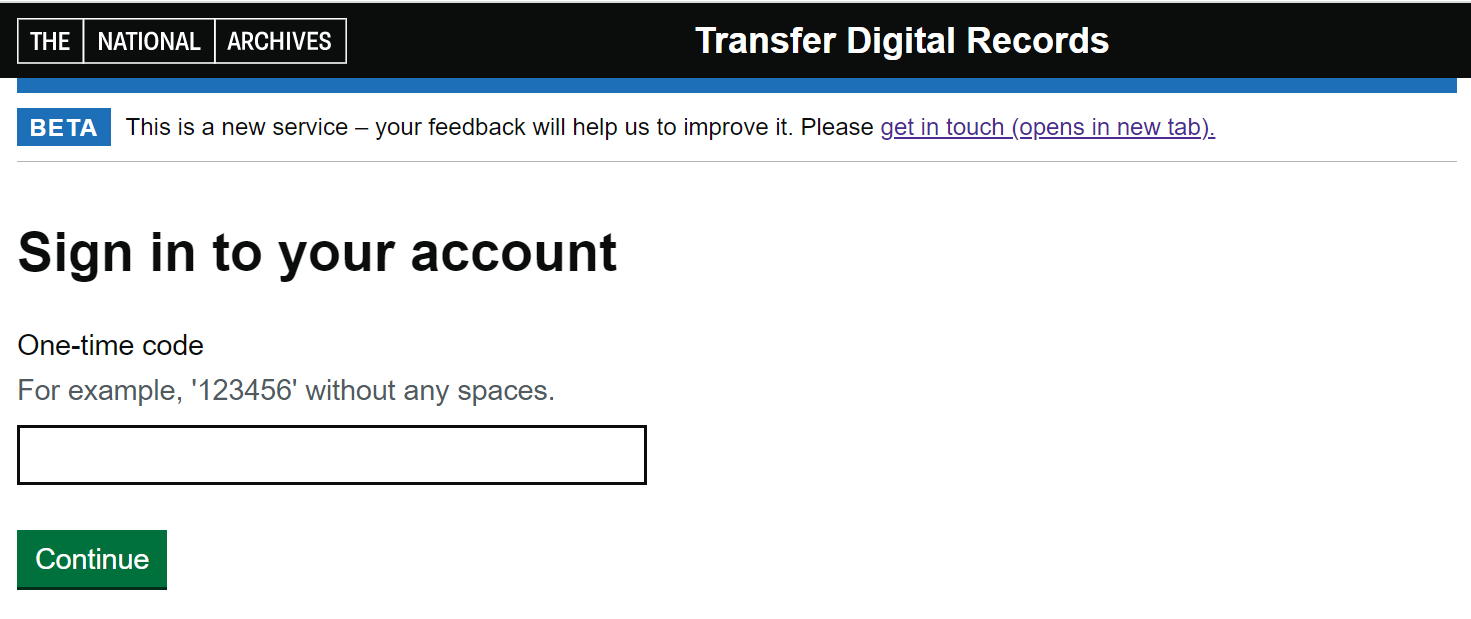
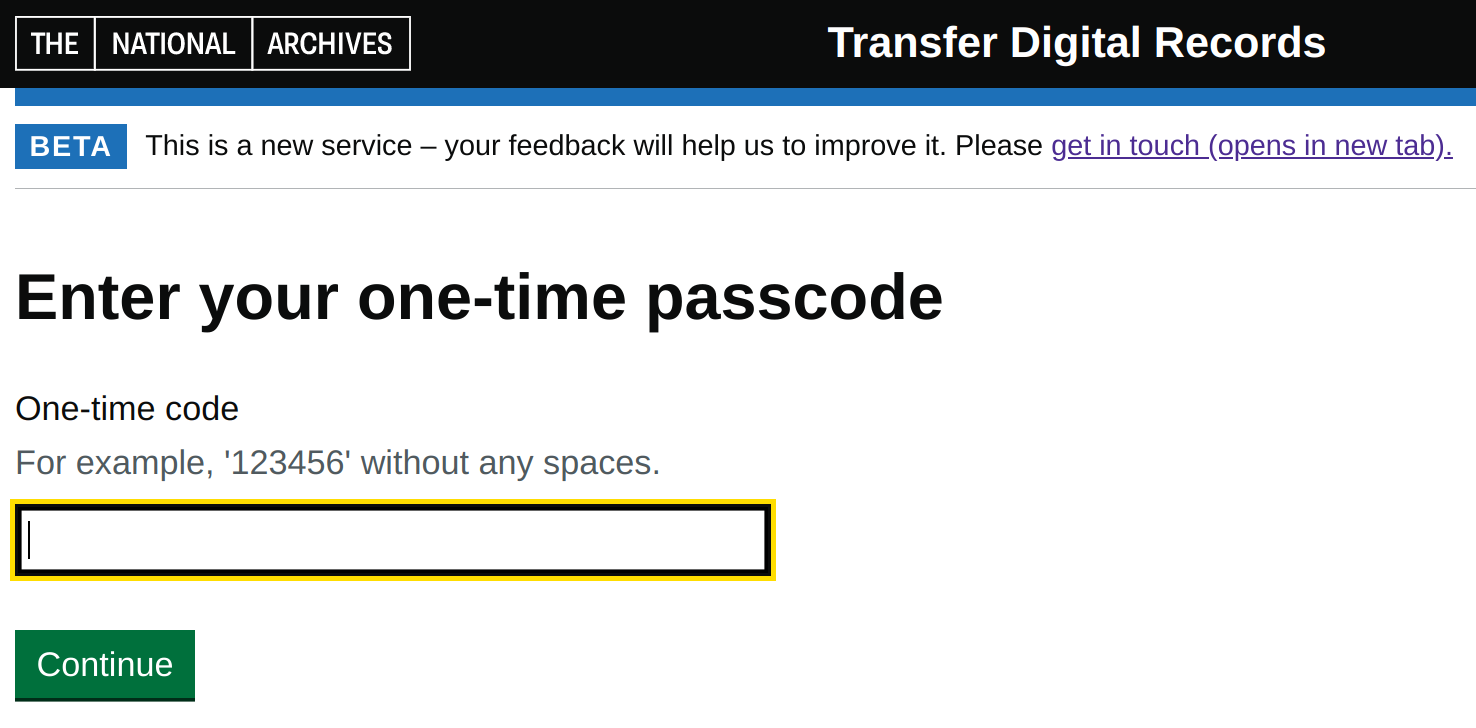
Judgment guide updates.
I've tried to stick as closely to the Google doc as I can in HTML.
The only bit I've changed that I'm not sure of is in the
"Step 2: Upload the judgment" section, there doesn't seem to be any
place for the first file upload image. The new text seems to suggest
that the error image is the next one so I've removed the first image.

I've also update the two MFA images to show the new page headings on the
MFA pages. These images are shared with the standard guide so they
should be updated there as well.

diff --git a/app/views/judgment/judgmentHelp.scala.html b/app/views/judgment/judgmentHelp.scala.html
@@ -42,10 +42,10 @@
           For anyone involved in recording judgments, this service is used to send the final approved judgment to TNA for preservation and publication on the 'Find Case Law' website <a href="https://caselaw.nationalarchives.gov.uk">https://caselaw.nationalarchives.gov.uk</a>.
         </p>
         <p class="govuk-body">
-          Sending via TDR is a two stage process:
+          Sending judgments via TDR is in two stages:
         </p>
         <ul class="govuk-list govuk-list--bullet">
-          <li>First you will upload your judgment into TDR </li>
+          <li>First you will upload your judgment onto TDR </li>
           <li>Then you will be prompted to export your judgment for transfer to TNA</li>
         </ul>
 
@@ -53,12 +53,12 @@
 
         <h3 class="govuk-heading-s" id="web-browsers">Web browsers</h3>
         <p class="govuk-body">
-          We do not support Internet Explorer (IE11). We advise you to use a different browser such as Edge, Chrome, Safari or Firefox to ensure you can use this service and all of its features.
+          We do not support Internet Explorer. We advise you to use a different browser such as Edge, Chrome or Firefox to ensure you can use this service and all of its features.
         </p>
 
         <h3 class="govuk-heading-s" id="secured-access">Secured access</h3>
         <p class="govuk-body">
-          In order to keep the service and your account secure from attack, TDR uses Multi-factor Authentication (MFA), which needs two separate pieces of information in order to authenticate and access the service. This means you will be required to sign in each time using a unique generated 'one-time password' (OTP) code that confirms who you are. This can be set up with a free-to-download authenticator app on your smartphone, such as Google Authenticator, Microsoft Authenticator, or FreeOTP. Other authenticators are available.
+          In order to keep the service and your account secure, TDR uses Multi-Factor Authentication (MFA), which needs two separate pieces of information in order to authenticate and grant access to the service. This means you are required to sign in each time using a unique generated 'one-time password' (OTP) code that confirms who you are. This can be set up with a free-to-download authenticator app on your smartphone, such as Google Authenticator, Microsoft Authenticator, or FreeOTP. Other authenticators are also available.
         </p>
         <p class="govuk-body">
           Free-to-download apps are available from the App Store for iPhone, or 'Google Play' and 'Play Store' for Android.
@@ -66,18 +66,11 @@
 
         <h3 class="govuk-heading-s" id="file-format">File format</h3>
         <p class="govuk-body">
-          Double-check your judgment prior to upload to ensure you are sending us the correct file.
+          You must only upload a single Microsoft Word (.docx) document per transfer, using the template supplied by the Judiciary Office Judgments Helpdesk. During upload and checking, if we detect a file we cannot accept, you will be notified on screen. For more information about the types of files we accept, contact <a href="mailto:@Messages("judiciary.email")">@Messages("judiciary.email")</a>
         </p>
-        <p class="govuk-body">
-          Only upload a single Microsoft Word (.docx) document per transfer, using the template supplied by the Judiciary Office Judgments Helpdesk, contactable at <a href="mailto:@Messages("judiciary.email")">@Messages("judiciary.email")</a>
-        </p>
-        <p class="govuk-body">
-          During upload and checking, if we detect a file we cannot accept, you will be notified on screen.
-        </p>
-
         <h3 class="govuk-heading-s" id="supplementary-material">Supplementary material</h3>
         <p class="govuk-body">
-          Occasionally other supporting documents, such as photos, need preserving with the judgment. When this happens, they will need to be emailed to TNA Case Law editorial team with the transfer reference of the judgment they relate to. Full details on how to do this can be found <a href="#supp-material">
+          If supporting documents, such as photos, need to be preserved with a judgment, they must be emailed to the TNA Find Case Law editorial team with the transfer reference of the judgment they relate to. Full details on how to do this can be found <a href="#supp-material">
           here</a>.
         </p>
 
@@ -91,54 +84,44 @@
         <h3 class="govuk-heading-s" id="new-user-email">Part 1: New user email</h3>
         <ol class="govuk-body">
           <li>
-            If you want to register for a new TDR account, email the <span class="govuk-!-font-weight-bold">Judiciary   Office   Judgments   Helpdesk</span> <a href="mailto:@Messages("nationalArchives.email")">
+            If your department has not requested a new account registration for you, you can register for a new TDR account by emailing <a href="mailto:@Messages("nationalArchives.email")">
             @Messages("nationalArchives.email")</a>
-            from your work email account and ask to register as a new user, stating clearly your first name and surname. Allow up to 2 working days for your request to be processed. </li>
+            from your work email account. in the email you should ask to register as a new user, stating clearly your first name and surname. Allow up to two working days for your request to be processed. </li>
           <li>
-            Once you have been validated for an account, you will be sent an email with the subject <span class="govuk-!-font-weight-bold">"Register for your Transfer Digital Records (TDR) account - ACTION REQUIRED"</span> which contains important registration instructions.</li>
+            Once your account is validated, you will be sent an email with the subject <span class="govuk-!-font-weight-bold">"Register for your Transfer Digital Records (TDR) account - ACTION REQUIRED"</span> which contains important registration instructions.</li>
           <li>
-            You will receive an email shortly after with the subject <span class="govuk-!-font-weight-bold">"Update Your Account"</span>, containing <span class="govuk-!-font-weight-bold">a link that expires after 12 hours.</span> Please click the link before it expires to begin your registration. <em>If your link has expired before you could use it, email <a href="mailto:@Messages("nationalArchives.email")">@Messages("nationalArchives.email")</a> and request a new registration link.</em></li>
-          <li>The link will take you to this page:</li>
+            You will receive an email shortly after with the subject <span class="govuk-!-font-weight-bold">"Update Your Account"</span>, containing <span class="govuk-!-font-weight-bold">a link that expires after 12 hours.</span> Click the link before it expires to begin your registration. <em>If your link expires before you can use it, email <a href="mailto:@Messages("nationalArchives.email")">@Messages("nationalArchives.email")</a> and request a new registration link.</em></li>
+          <li>The registration link will take you to this page:</li>
           <img src="@routes.Assets.versioned("images/configure-otp-password-page.png")" class="screenshots" alt="Sign in page with a link to setup MFA and password" />
           <li>
-            Click on the <span class="govuk-!-font-weight-bold">"Configure OTP, Update Password"</span> link to set up your 'One-time password' (OTP), sometimes referred to as 'One-time PIN', for secure sign in using two-step authentication.</li>
+            Click on the <span class="govuk-!-font-weight-bold">"Configure OTP, Update Password"</span> link to set up your 'one-time password' (OTP) code, sometimes referred to as 'one-time PIN', to securely sign in using two-step authentication.</li>
         </ol>
 
         <h3 class="govuk-heading-s" id="why-otp">What is OTP and why do I need to use it?</h3>
         <p class="govuk-body">
-          In order to keep the service and your account secure from attack, TDR requires Multi-factor Authentication (MFA), which uses two separate pieces of information in order to authenticate access to the service. This means that, in addition to your personal password, you will be required to sign in each time using a <span class="govuk-!-font-weight-bold">'One-time password' (OTP) code</span> from an authenticator app, which you set up to generate a unique single use code that confirms who you are. Free authenticator apps can be downloaded onto your smartphone, such as Google Authenticator, Microsoft Authenticator, or FreeOTP. Other authenticators are available.
+          A ‘one-time password’ (OTP) code is a unique generated code that confirms who you are. An OTP code is generated in an authenticator app. Free authenticator apps can be downloaded onto your smartphone, such as Google Authenticator, Microsoft Authenticator, or FreeOTP. Other authenticators are available. Free-to-download apps are available from the App Store for iPhone, or 'Google Play' and 'Play Store' for Android.
         </p>
         <p class="govuk-body">
-          Free-to-download apps are available from the App Store for iPhone, or 'Google Play' and 'Play Store'.
+          To keep the service and your account secure, you must sign in to your account using an OTP in addition to your personal password.
         </p>
 
         <h3 class="govuk-heading-s" id="two-step-auth">Part 2: Two-step authentication</h3>
         <p class="govuk-body">
-          Clicking the "Configure OTP, Update Password" link will take you to the <span class="govuk-!-font-weight-bold">"Sign in to your account"</span> page:
+          Clicking the "Configure OTP, Update Password" link will take you to the <span class="govuk-!-font-weight-bold">"Configure multi-factor authentication"</span> page:
         </p>
         <img src="@routes.Assets.versioned("images/set-up-mfa-page.png")" class="screenshots" alt="Form to setup multi factor authentication" />
-        <ol class="govuk-body">
-          <li>Ensure you have installed an authenticator app onto your smartphone before proceeding.</li>
-          <li>To set up your app for use with TDR:
-            <ol class="govuk-body">
-              <li>Open your downloaded authenticator app on your mobile.</li>
-              <li>Create a new TDR-related account on the app using the QR code displayed on your screen:
-                <ul class="govuk-body">
-                  <li>For Google Authenticator, click on the first option 'Scan a QR code'.</li>
-                  <li>
-                    For Microsoft Authenticator, first click on the <span class="govuk-!-font-weight-bold">'+'</span> icon to add an account. Note that you might need to click on the three little dots in the top right corner to have this option displayed. Then select <span class="govuk-!-font-weight-bold">"Other (Google, Facebook, etc.)"</span> to access the QR scanner.</li>
-                  <li>For Free OTP, click on the QR code icon located in the top banner of your smartphone screen.</li>
-                </ul>
-              </li>
-              <li>Scan the QR code displayed on your computer screen</li>
-              <li>Your smartphone app will automatically create a unique OTP account to use with TDR sign in.</li>
-              <li>You should now be able to see a 6-digit code that will refresh at regular intervals.</li>
-            </ol>
-          </li>
+        <p class="govuk-body">First you must ensure you have installed an authenticator app onto your smartphone before proceeding.</p>
+        <p class="govuk-body">To set up your app for use with TDR, open your authenticator app on your mobile and create a new TDR account using the QR displayed on your screen</p>
+        <ul class="govuk-body">
+          <li>For Google Authenticator, click on the first option 'Scan a QR code'.</li>
           <li>
-            In the <span class="govuk-!-font-weight-bold">"One-time code"</span> box, type in the 6 digits <u>without a space</u>, ensuring that you have enough time to complete this page before the code refreshes (usually every 30 to 60 seconds).</li>
-          <li>Click <span class="govuk-!-font-weight-bold">"Submit"</span> <u>before</u> the code used expires in the app.</li>
-        </ol>
+            For Microsoft Authenticator, first click on the '+' icon to add an account. You might need to click on the three little dots in the top right corner to have this option displayed. Then select "Other (Google, Facebook, etc.)" to access the QR scanner.
+          </li>
+          <li>For Free OTP, click on the QR code icon located in the top banner of your smartphone screen.</li>
+        </ul>
+        <p class="govuk-body">Scan the QR code displayed on your computer screen and your app will automatically create a unique OTP account to use with TDR. You should now see a 6-digit code that will refresh at regular intervals.</p>
+        <p class="govuk-body">In the "One-time code" box, type in the six digits <u>without a space</u>, ensuring that you have enough time to complete this page before the code refreshes (usually every 30 to 60 seconds).</p>
+        <p class="govuk-body">Click "Submit" <u>before</u> the code expires in the app.</p>
 
         <h3 class="govuk-heading-s" id="set-pass">Part 3: Set your password</h3>
         <p class="govuk-body">
@@ -150,14 +133,15 @@
           <li>Click <span class="govuk-!-font-weight-bold">"Submit"</span> to be taken to the "Sign in to your account" page:</li>
           <img src="@routes.Assets.versioned("images/sign-in-link-page.png")" class="screenshots" alt="Page with a link to sign in to your account" />
           <li>
-            Click the <span class="govuk-!-font-weight-bold">"sign in to your account"</span> link to be taken to the standard "Sign in to your account" page in <a href="#step-0">Step 0</a> that you will start with every time you sign in to use the service as an existing account holder.</li>
-            <li><span class="govuk-!-font-weight-bold">You must complete your registration following the sign in procedure in <a href="#step-0">Step 0</a>.</span></li>
+            Click the <span class="govuk-!-font-weight-bold">"sign in to your account"</span> link to be taken to the standard "Sign in to your account" page that you will see each time you sign in to use the service as an existing account holder.
+          </li>
+            <li>You must complete your registration following the sign in procedure.</li>
         </ol>
 
         <h2 class="govuk-heading-m" id="existing-account-holder">Using the service as an existing account holder</h2>
         <h3 class="govuk-heading-s" id="web-browsers-access">Web browsers</h3>
         <p class="govuk-body">
-          We do not support Internet Explorer (IE11). We advise you to use a different browser such as Edge, Chrome, Safari or Firefox to ensure you can use this service and all of its features.
+          We do not support Internet Explorer. We advise you to use a different browser such as Edge, Chrome or Firefox to ensure you can use this service and all of its features.
         </p>
 
         <h3 class="govuk-heading-s" id="accessing-tdr">Accessing TDR</h3>
@@ -171,32 +155,29 @@
           Click <span class="govuk-!-font-weight-bold">"Start now"</span> to sign in and begin the transfer process.
         </p>
 
-        <h3 class="govuk-heading-s" id="top-tip-bookmark">Top tip</h3>
+        <h3 class="govuk-heading-s" id="step-0">To begin: Sign in to your account using Multi-Factor Authentication</h3>
         <p class="govuk-body">
-          Add TDR to your browser's Favourites or Bookmarks for quick access next time you use the service.
-        </p>
-
-        <h3 class="govuk-heading-s" id="step-0">Step 0: Sign in to your account using multi-factor authentication</h3>
-        <p class="govuk-body">
-          Before you can use the service, you must sign in using multi-factor authentication (MFA) with the authenticator app that you set up on your smartphone, which generates your unique 'one-time password' (OTP) code.
+          Before you can use the service, you must sign in using Multi-Factor Authentication (MFA) with the authenticator app that you set up on your smartphone, which generates your unique 'one-time password' (OTP) code.
         </p>
         <ol class="govuk-body">
           <img src="@routes.Assets.versioned("images/judgment-sign-in-email-password.png")" class="screenshots" alt="Form to enter an email and password" />
           <li>
-            Sign in by entering your <span class="govuk-!-font-weight-bold">"Email address"</span> and <span class="govuk-!-font-weight-bold">"Password"</span>, then click <span class="govuk-!-font-weight-bold">"Sign in"</span> to be taken to the <span class="govuk-!-font-weight-bold">"One-time code"</span> section on this page:
+            Sign in by entering your email address and password, then click "Sign in" to be taken to the "One-time code" section on this page:
           </li>
           <img src="@routes.Assets.versioned("images/enter-mfa-code-page.png")" class="screenshots" alt="Form to enter the code from the MFA app" />
           <li>
-            Enter a new 6-digit one-time code from the authenticator app that you set up when you registered. Enter the code without any spaces and click <span class="govuk-!-font-weight-bold">"Continue"</span> before it refreshes.</li>
-          You will then be taken to the TDR Homepage
-          <img src="@routes.Assets.versioned("images/judgment-tdr-start-page.png")" class="screenshots" alt="The TDR Homepage" />
-          <li>Click <span class="govuk-!-font-weight-bold">"Start transfer"</span> to begin</li>
+            Enter a new 6-digit one-time code from the authenticator app that you set up when you registered. Enter the code without any spaces and click <span class="govuk-!-font-weight-bold">"Continue"</span> before it refreshes.
+          </li>
+          <li>You will then be taken to the TDR Homepage
+            <img src="@routes.Assets.versioned("images/judgment-tdr-start-page.png")" class="screenshots" alt="The TDR Homepage" />
+            Click <span class="govuk-!-font-weight-bold">"Start transfer"</span> to begin
+          </li>
 
         </ol>
 
         <h3 class="govuk-heading-s" id="step-1">Step 1: Check your file before uploading</h3>
         <p class="govuk-body">
-          You will be prompted to check that your document contains the following information:
+          You will be prompted to check that your file contains the following information:
         </p>
         <ul class="govuk-body">
           <li>Neutral citation</li>
@@ -206,32 +187,28 @@
           <li>Judgment date</li>
         </ul>
         <p class="govuk-body">
-          You must ensure your judgment includes all important information above <u>before</u> you start your upload.
+            You must ensure your judgment includes all important information above <span class="govuk-!-font-weight-bold">before</span> you start your upload. Press "Continue" when you are ready to move on.
         </p>
         <img src="@routes.Assets.versioned("images/judgment-check-your-file.png")" class="screenshots" alt="Check your file before uploading page" />
 
         <h3 class="govuk-heading-s" id="supp-material">Supplementary material</h3>
         <p class="govuk-body">
-          If you need to include additional documents with your judgment, you currently <u>cannot</u> upload them with your judgment as part of the transfer. Instead, click on the <a href="mailto:@Messages("nationalArchives.judgmentsEmail")">
+          Currently, you cannot upload additional documents with your judgment, as part of the transfer. Instead, click on the <a href="mailto:@Messages("nationalArchives.judgmentsEmail")">
           @Messages("nationalArchives.judgmentsEmail")</a>
           link located in the middle of the screen to generate an automatic email with the transfer reference as the subject. Attach your supplementary documents and add any other relevant information before sending.
         </p>
         <p class="govuk-body">
-          If your email application, for example Outlook, is not set up to automatically create the email for you, create your own email to send to the same address, manually adding the transfer reference as the subject.
+          You can also create the email yourself, manually adding the transfer reference as the subject and sending it to the correct email address.
         </p>
 
         <h3 class="govuk-heading-s" id="replacement-versions">Replacement versions</h3>
         <p class="govuk-body">
-          If your judgment is an amended replacement version for an existing judgment, use the same email method to notify the TNA Case Law editorial team. Include the neutral citation reference of the original judgment that it is replacing.
+          If your judgment is an amended replacement version for an existing judgment, email <a href="mailto:@Messages("nationalArchives.judgmentsEmail")">@Messages("nationalArchives.judgmentsEmail")</a> to notify the TNA Find Case Law editorial team. Include the neutral citation reference of the original judgment that it is replacing.
         </p>
 
         <h3 class="govuk-heading-s" id="anonymisation-orders">Anonymisation Orders</h3>
         <p class="govuk-body">
-          If your judgment has an anonymisation order, use the same email method to notify the TNA Case Law editorial team, include the neutral citation reference and any important information so that the editorial team can give your record the attention it needs. This procedure will become automated in time.
-        </p>
-
-        <p class="govuk-body">
-          Press <span class="govuk-!-font-weight-bold">"Continue"</span> when you are ready to move on.
+          If your judgment has an anonymisation order, email <a href="mailto:@Messages("nationalArchives.judgmentsEmail")">@Messages("nationalArchives.judgmentsEmail")</a> to notify the TNA Find Case Law editorial team. You must include the neutral citation reference and any important information. This procedure will become automated in time.
         </p>
 
         <h3 class="govuk-heading-s" id="step-2">Step 2: Upload the judgment</h3>
@@ -239,35 +216,28 @@
           To upload your judgment, you can either:
         </p>
         <ol class="govuk-body">
-          <li>"Choose file" by browsing for a file stored on your computer, or</li>
-          <li>"Drag and drop a single file" into the upload box.</li>
-          <img src="@routes.Assets.versioned("images/judgment-upload-page.png")" class="screenshots" alt="Judgment upload page" />
-          <p class="govuk-body">
-            The file must be uploaded as a Microsoft Word document (.docx) and you must only upload a single file.
-          </p>
-          <p class="govuk-body">
-            Only valid Word files will be visible when using 'Choose file' to browse. If you attempt to 'Drag and drop' a different file format, you will see this error message and must choose a different valid Word file.
-          </p>
+          <li>"Choose file" by browsing for a file stored on your computer, or "Drag and drop a single file" into the upload box. The file must be uploaded as a Microsoft Word document (.docx) and you must only upload a single file. Only valid Word files will be visible when using 'Choose file' to browse. If you attempt to 'Drag and drop' a different file format, you will see this error message and must choose a different valid Word file.</li>
           <img src="@routes.Assets.versioned("images/judgment-upload-error.png")" class="screenshots" alt="Judgment upload error page" />
+          <li>
+            <p class="govuk-body">
+              When you have selected a valid file, the page will show the name of the file selected in green.
+            </p>
+            <img src="@routes.Assets.versioned("images/judgment-upload-valid-file.png")" class="screenshots" alt="Judgment upload page with a valid file selected" />
 
+            <p class="govuk-body">
+              If you selected a file in error, use the blue "Remove selected records" link, to the right of the file name, to remove the file and start the selection again.
+              Click "Start upload" to upload your judgment to TDR. You will see a progress bar as the file uploads.
+            </p>
+          </li>
+          <img src="@routes.Assets.versioned("images/judgment-progress-bar.png")" class="screenshots" alt="Judgment upload progress bar"/>
           <p class="govuk-body">
-            When you have selected a valid file, the page will show the name of the file selected in green.
-          </p>
-          <img src="@routes.Assets.versioned("images/judgment-upload-valid-file.png")" class="screenshots" alt="Judgment upload page with a valid file selected" />
-
-          <p class="govuk-body">
-            If you selected a file in error, use the blue "Remove selected records" link, to the right of the file name, to remove the file and start the selection again.
-          </p>
-          <li>Click <span class="govuk-!-font-weight-bold">"Start upload"</span> to upload your judgment into TDR. You will see a progress bar as the file is uploaded.</li>
-          <img src="@routes.Assets.versioned("images/judgment-progress-bar.png")" class="screenshots" alt="Judgment upload progress bar" />
-          <p class="govuk-body">
-            You will automatically be transferred to Step 3 on completion of your upload into TDR.
+            You will automatically be transferred to Step 3 when the upload is complete.
           </p>
         </ol>
 
         <h3 class="govuk-heading-s" id="step-3">Step 3: Upload undergoes checks</h3>
         <p class="govuk-body">
-          Once uploaded, your judgment is automatically checked to ensure it is suitable for transfer. This will take several minutes so please keep your tab open if you navigate away to do something else whilst waiting.
+          Once uploaded, your judgment is automatically checked to ensure it is suitable for transfer. This will take several minutes so you must keep your browser tab open.
         </p>
         <img src="@routes.Assets.versioned("images/judgment-checking-your-upload.png")" class="screenshots" alt="Checking your upload page" />
 
@@ -276,19 +246,14 @@
         </p>
         <img src="@routes.Assets.versioned("images/judgment-file-check-results.png")" class="screenshots" alt="File check results page" />
 
-        <ol class="govuk-body">
-          <li>
-            You must click <span class="govuk-!-font-weight-bold">"Export"</span> to transfer your successful upload from TDR to TNA and complete the process.
-          </li>
-
-        </ol>
+        <p class="govuk-body">You must click "Export" to transfer your successful upload from TDR to TNA and complete the process.</p>
 
         <h3 class="govuk-heading-s" id="error-message">Error message</h3>
         <p class="govuk-body">
-          In the unlikely event that any issues are found, you will be notified on screen that your upload has failed and asked to begin your transfer again from the TDR Homepage.
+          If your file fails our checks, you will be notified on screen and asked to begin your transfer again from the TDR Homepage.
         </p>
         <p class="govuk-body">
-          Before you try again, you should first check the following:
+          Before you try again, you should check the following:
         </p>
         <ul class="govuk-body">
           <li>Your internet connection is stable</li>
@@ -296,7 +261,7 @@
           <li>Your file is not corrupted or password protected by checking you can open it on your own computer</li>
         </ul>
         <p class="govuk-body">
-          If you have confirmed yes to all then try again. If your file still fails, contact <a href="mailto:@Messages("nationalArchives.email")">
+          If your file meets this criteria then try again. If your file still fails, contact <a href="mailto:@Messages("nationalArchives.email")">
           @Messages("nationalArchives.email")</a> with details of the judgment you have tried to upload.
         </p>
 
@@ -306,20 +271,20 @@
           After clicking "Export", your upload will be transferred to TNA and, once received, you will automatically be taken to the "Transfer complete" page.
         </p>
         <p class="govuk-body">
-          This will include a transfer reference (e.g. TDR-2022-1234). Make a note of this reference in case you need to contact us regarding your transfer or if you need to submit supporting documents, inform us about a replacement version, or inform us with detail of an anonymisation order.
+          This will include a transfer reference (e.g. TDR-2022-1234). Make a note of this reference in case you need to contact us regarding your transfer or if you need to submit supporting documents, inform us about a replacement version, or inform us with details of an anonymisation order.
         </p>
         <p class="govuk-heading-s">
-          Do not delete your original file yet!
+          Do not delete your original file yet.
         </p>
         <p class="govuk-body">
-          Your file has only arrived at TNA and you will be notified again by email once the judgment has been received, processed by the Case Law editorial team, and published for viewing on the Find Case Law website.
+          You will be notified again by email once the judgment has been received, processed by the Find Case Law editorial team, and published for viewing on the Find Case Law website.
         </p>
         <img src="@routes.Assets.versioned("images/judgment-transfer-complete.png")" class="screenshots" alt="Transfer complete page" />
         <p class="govuk-body">
           Click <span class="govuk-!-font-weight-bold">"Return to start"</span> to begin a new transfer, or <span class="govuk-!-font-weight-bold">"Sign Out"</span> in the top right corner.
         </p>
 
-        <h3 class="govuk-heading-s" id="send-feedback">Send us feedback on your experience</h3>
+        <h3 class="govuk-heading-s" id="send-feedback">Send us feedback about your experience</h3>
         <p class="govuk-body">
           Please click the <span class="govuk-!-font-weight-bold">"What did you think of this service?"</span> link to open up an anonymous survey in a new tab and send feedback to improve the service.
         </p>
@@ -344,7 +309,7 @@
 
         <h3 class="govuk-heading-s" id="glossary-browser">Browser</h3>
         <p class="govuk-body">
-          An application used to access the internet, such as Edge, Chrome, Safari or Firefox.
+          An application used to access the internet, such as Edge, Chrome or Firefox.
         </p>
 
         <h3 class="govuk-heading-s" id="glossary-judgment">Judgment</h3>
@@ -357,9 +322,9 @@
           A specific electronic file format used for creating documents.
         </p>
 
-        <h3 class="govuk-heading-s" id="glossary-mfa">Multi-factor authentication (MFA)</h3>
+        <h3 class="govuk-heading-s" id="glossary-mfa">Multi-Factor Authentication (MFA)</h3>
         <p class="govuk-body">
-          A security feature that uses two separate pieces of information in order to authenticate a genuine account holder. In TDR this is the user's unique password in combination with an OTP code generated in a configured authenticator app.
+          A security feature that uses two separate pieces of information in order to authenticate a genuine account holder. In TDR this includes the user's unique password and an OTP code generated in a configured authenticator app.
         </p>
 
         <h3 class="govuk-heading-s" id="glossary-neutral-citation">Neutral citation</h3>
@@ -369,7 +334,7 @@
 
         <h3 class="govuk-heading-s" id="glossary-otp">One-time password (OTP)</h3>
         <p class="govuk-body">
-          A unique code specific to the user of a configured account that refreshes every 30 to 60 seconds.
+          A unique code generated in an authenticator app that is specific to the user of a configured account.
         </p>
 
         <h3 class="govuk-heading-s" id="glossary-replacement-versions">Replacement versions</h3>
